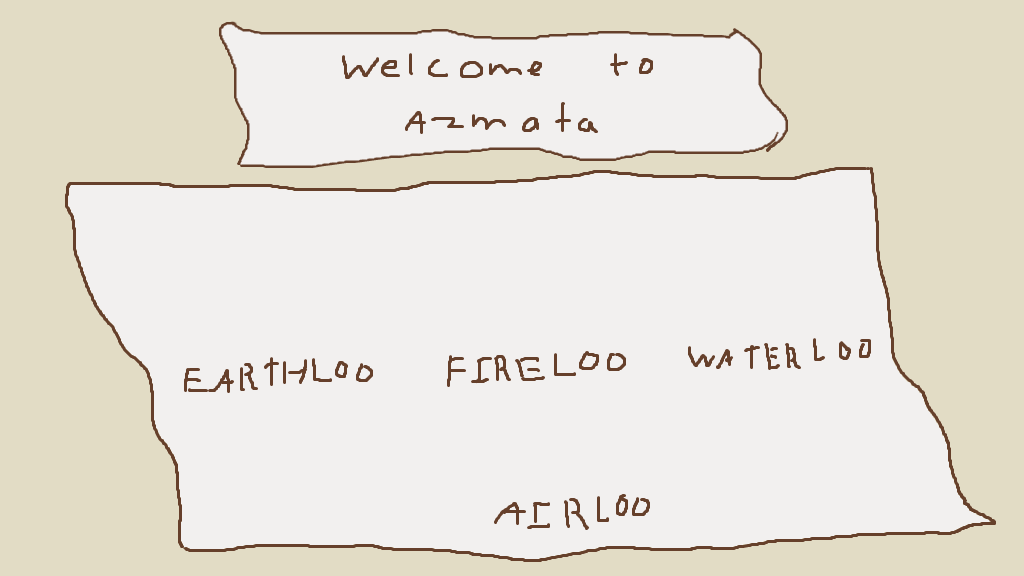
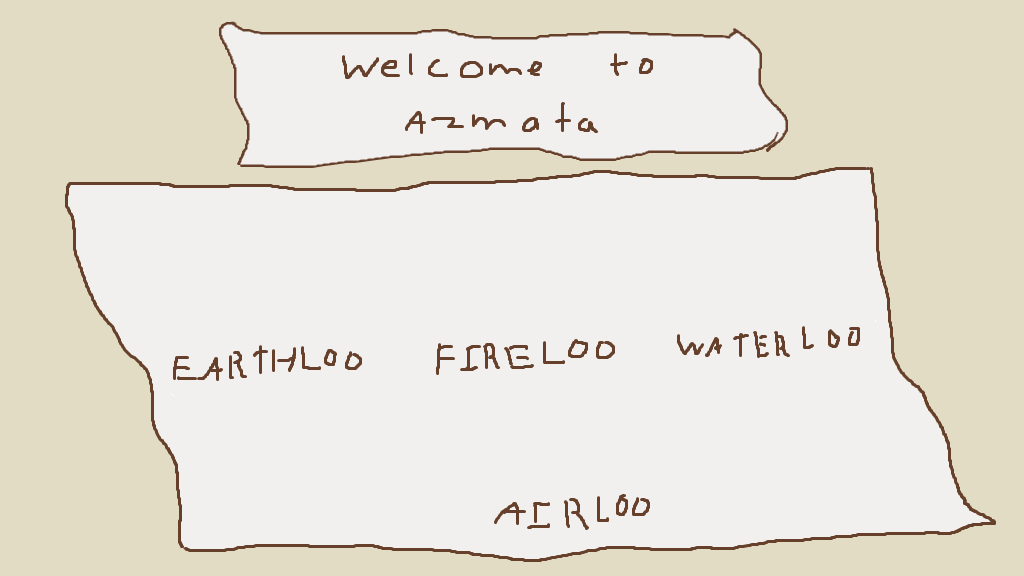
all world map graphics

Changed region(s): [[0.4062, 0.5938, 0.625, 0.6875], [0.1562, 0.5938, 0.375, 0.6875], [0.6562, 0.5625, 0.875, 0.6562]]

diff --git a/src/Menu/WorldMenu.java b/src/Menu/WorldMenu.java
@@ -32,10 +32,10 @@ public class WorldMenu extends JPanel {
         InputMap input_map = getInputMap(JComponent.WHEN_IN_FOCUSED_WINDOW);
         // Create the menu options
         options = new MenuOption[4];
-        options[World.EARTHLOO.value] = new MenuOption("Menu/earthloo.png", new Point(150, 175));
-        options[World.FIRELOO.value] = new MenuOption("Menu/fireloo.png", new Point(300, 175));
-        options[World.WATERLOO.value] = new MenuOption("Menu/waterloo.png", new Point(400, 175));
-        options[World.AIRLOO.value] = new MenuOption("Menu/instructions.png", new Point(355, 445));
+        options[World.EARTHLOO.value] = new MenuOption("Menu/earthloo.png", new Point(165, 180));
+        options[World.FIRELOO.value] = new MenuOption("Menu/fireloo.png", new Point(440, 180));
+        options[World.WATERLOO.value] = new MenuOption("Menu/waterloo.png", new Point(650, 175));
+        options[World.AIRLOO.value] = new MenuOption("Menu/airloo.png", new Point(450, 350));
         background_image = Azmata.imageFromFile("Menu/world_background.png");
         // Just in case, not sure if the input maps are retained from previous panels
         input_map.clear();

diff --git a/src/Game/Game.java b/src/Game/Game.java
@@ -18,6 +18,7 @@ import java.io.ObjectOutputStream;
 public class Game extends JPanel {
     /** The current state of the game */
     public static GameState state;
+    /** Where the game will be saved */
     private static ObjectOutputStream save_game;
     /** How far in a direction the player has moved */
     private static Point movement_offset;
@@ -74,7 +75,7 @@ public class Game extends JPanel {
      */
     public Game(World game_world) {
         this(new GameState(game_world));
-        // show intro
+        // TODO: show intro
     }
 
     /**
@@ -92,6 +93,9 @@ public class Game extends JPanel {
                 //say("lol", "hi");
             }
         });
+        for (NPC npc : state.npc_list) {
+            state.getMap().map[npc.position.x][npc.position.y].can_walk = false;
+        }
         player = new Player();
     }
 
@@ -129,7 +133,6 @@ public class Game extends JPanel {
         player.draw(animation_state %= 3);
         for (NPC npc : state.npc_list) {
             npc.draw();
-            state.getMap().map[npc.position.x][npc.position.y].can_walk = false;
             if (false) npc.onTalk();
         }
     }

diff --git a/src/Game/GameMap.java b/src/Game/GameMap.java
@@ -56,7 +56,7 @@ public class GameMap {
                 String[] images = sc.next().split("-");
                 map[i][j] = new Tile(sc.nextBoolean());
                 for (String img : images) {
-                    map[i][j].getImages().add(temp_images.get(Integer.parseInt(img)));
+                    map[i][j].images.add(temp_images.get(Integer.parseInt(img)));
                 }
             }
         }
